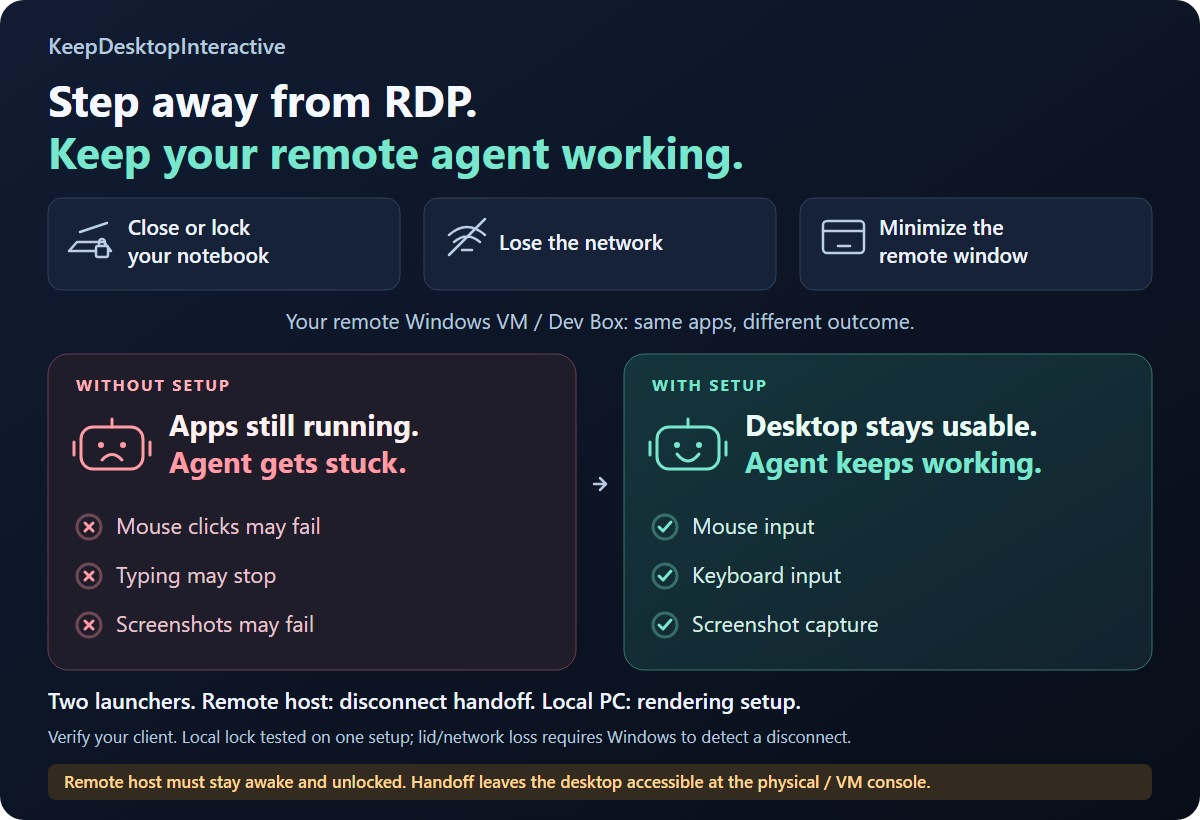
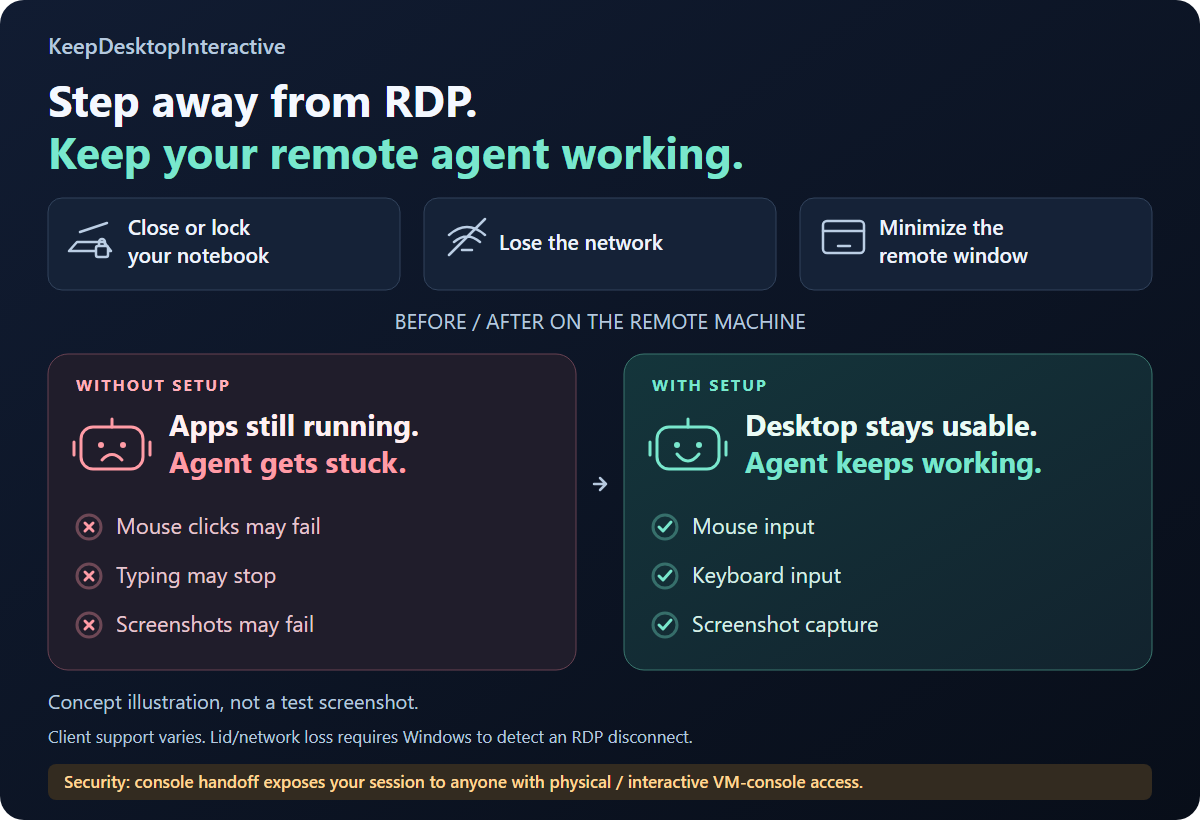
Remove repeated explanations across README prose and diagram
Copilot-Session: d93ac74e-e4d7-4ddb-9d8e-521899f929af

Changed region(s): [[0.0308, 0.8232, 0.7092, 0.9146], [0.2467, 0.3659, 0.7708, 0.4268], [0.0617, 0.9451, 0.7708, 0.9756]]

diff --git a/README.md b/README.md
@@ -7,25 +7,14 @@
 
 ![Before/after: closing or locking your notebook, losing the network, or minimizing RDP can leave remote apps running but the agent stuck. Host handoff and compatible client rendering help preserve mouse input, typing, and screenshots. Verify your setup; console handoff leaves the remote desktop unlocked.](https://raw.githubusercontent.com/yeelam-gordon/KeepDesktopInteractive/1213eb0de83bb0db3f6bae6d1a8c98e682c2135d/assets/keep-desktop-interactive.png)
 
-**Your remote agent should not need you to babysit an RDP window.**
-
-You leave an AI agent or UI test working on a Windows VM or Dev Box. Then you
-close your notebook, lock your local screen, lose the network, or minimize the
-remote window. The remote apps may still be running, but **clicks, typing, and
-screenshots can stop working**. Your agent is running, yet its work is stuck.
-
-KeepDesktopInteractive helps keep that remote desktop usable when you step away:
+For **AI agents and UI tests on Windows PCs or VMs accessed over RDP**.
+Each situation has different requirements:
 
 | When you... | What helps |
 | --- | --- |
 | **Close your notebook or lose the network** | Once Windows detects an RDP disconnect, the host task hands your existing session to the console. Closing the lid is covered only if it causes that disconnect; network-loss detection can take time. |
-| **Lock your local screen** | With client setup applied, real input and screenshots passed on our tested setup while the notebook stayed awake. Verify your own client. |
+| **Lock your local screen** | Passed with client setup applied and the notebook awake on our tested client/host pair; verify with your own client. This is not the same as locking the remote desktop. |
 | **Minimize the remote window** | Client-side rendering configuration helps keep automation usable; support varies by RDP client. |
-
-**Two launchers: one on the remote Windows PC/VM, one on your local Windows PC.**
-No stored passwords or autologon. The remote machine must stay awake and its
-desktop unlocked; this does not keep automation working through a remote lock,
-sign-out, or shutdown.
 
 ## Two computers. Two launchers.
 
@@ -64,10 +53,8 @@ beside that result, outside the installed scripts and Git checkout.
 
 ## Know before using
 
-- **Lock your local notebook:** remote mouse input, typing, and screenshots passed on our tested setup. Keep the notebook awake and the remote desktop unlocked; verify with your own RDP client.
-- **Minimize:** client support varies, especially Windows App versions. Verify your own setup.
 - **Reboot:** settings persist; log in and unlock once, then restart your apps and automation.
-- **Limits:** remote desktop locking, sleep, shutdown, and sign-out can still stop automation. Locking your local notebook is not the same as locking the remote desktop.
+- **Limits:** remote desktop locking, sleep, shutdown, and sign-out can still stop automation.
 
 [Setup results, troubleshooting, undo, and implementation details](docs/configuration.md)
 
